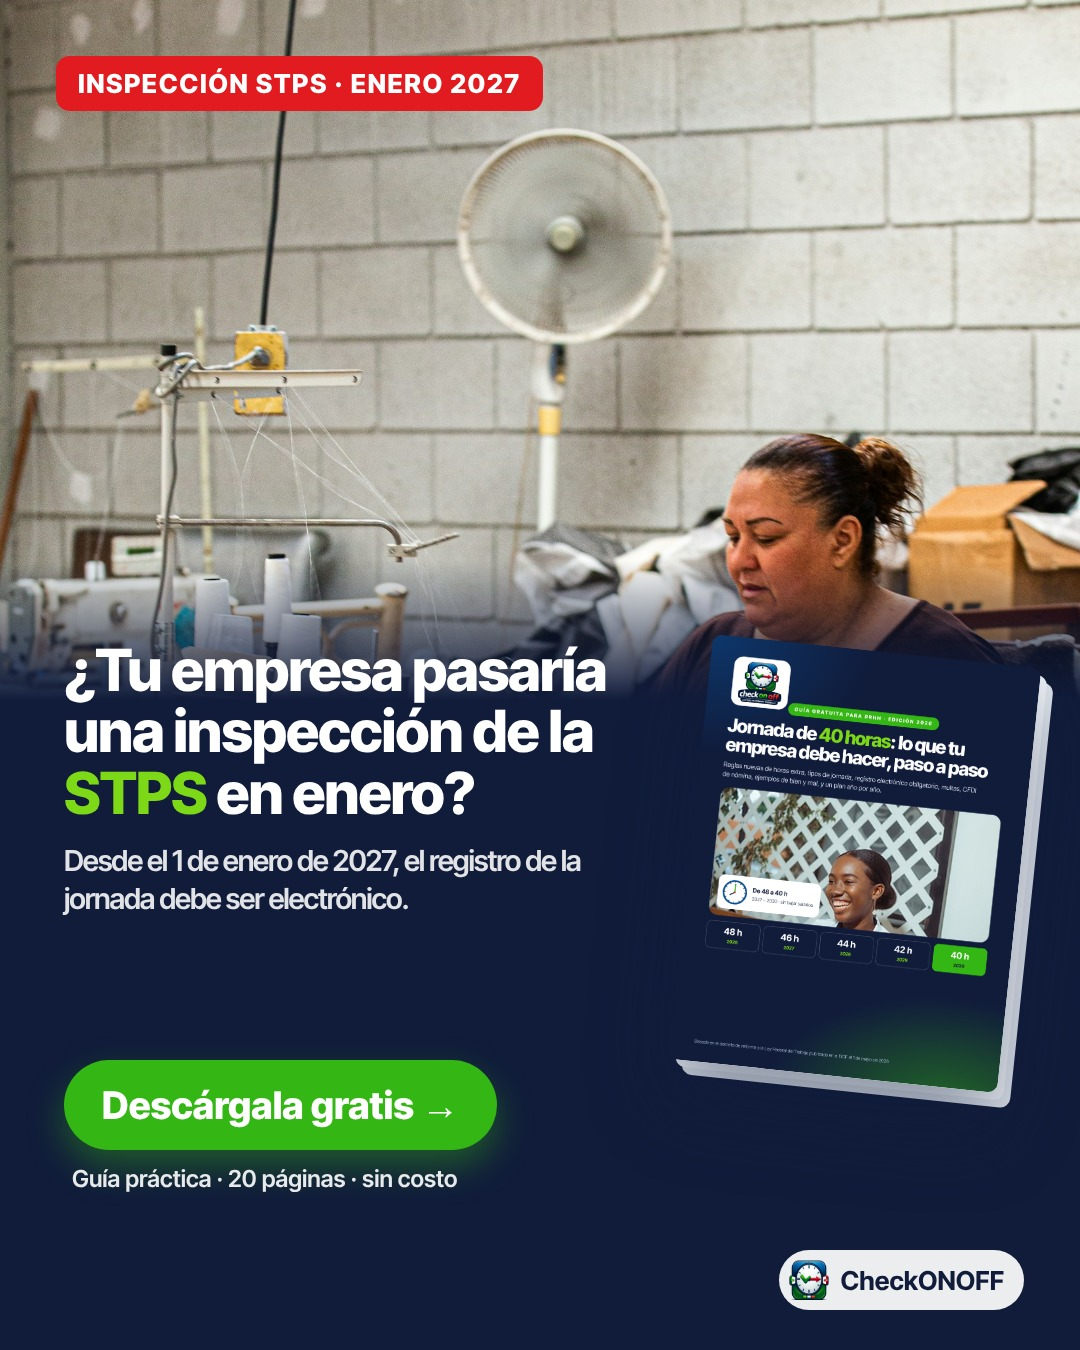
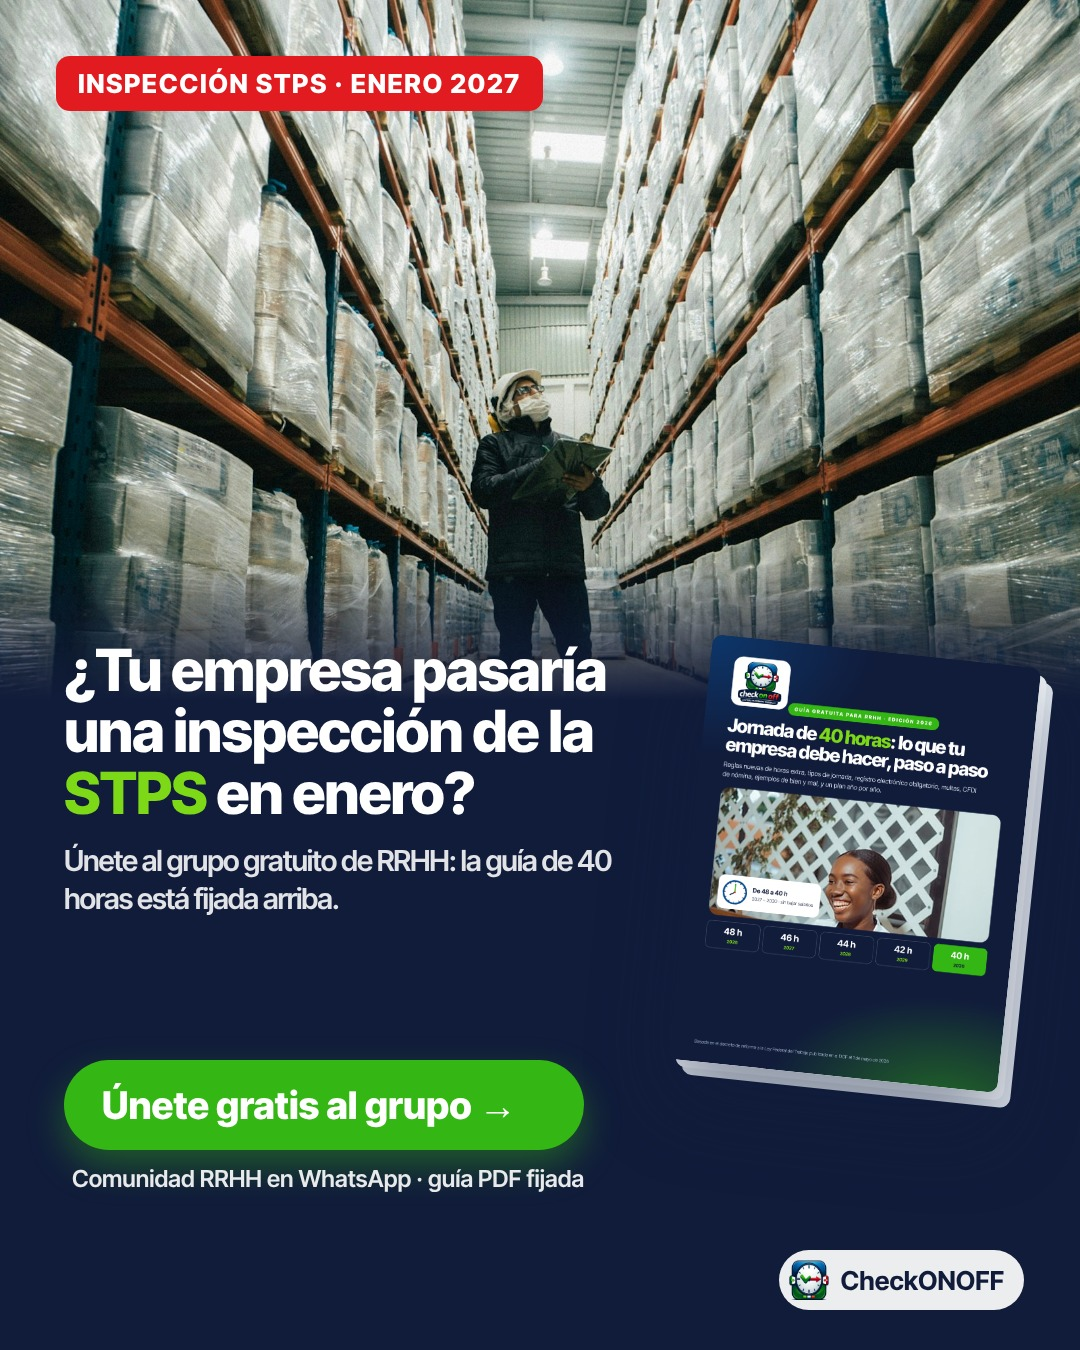
Anuncio en pausa para unirse al grupo de WhatsApp Jornada 40 hrs MX (A/B, feed e historias, fotos nuevas)
Claude-Session: https://claude.ai/code/session_01XBCqhX5CghmhVPF1PqhUxY

diff --git a/plantillas/render_campana_stps.js b/plantillas/render_campana_stps.js
@@ -1,4 +1,4 @@
-// Campaña pagada "¿Pasarías una inspección de la STPS?" (guía 40 h como imán) · estándar premium
+// Campaña pagada: unirse al grupo de WhatsApp "Jornada 40 hrs MX" (la guía 40 h está fijada ahí) · estándar premium
 const { chromium } = require('/opt/node-tools/node_modules/playwright');
 const fs = require('fs'), path = require('path');
 const { b64, LOGO, C, CSS, ph, G } = require('./premium_base');
@@ -11,20 +11,20 @@ const libro = (x, y, w, rot) => `<div style="position:absolute;left:${x}px;top:$
   <img src="${GUIA}" style="position:relative;display:block;width:100%;border-radius:10px;box-shadow:0 40px 80px rgba(17,28,59,.45)"></div>`;
 const chip = (t, bg, col, x, y, s = 30) => `<div style="position:absolute;left:${x}px;top:${y}px;background:${bg};color:${col};font-weight:800;font-size:${s}px;letter-spacing:.06em;padding:12px 22px;border-radius:14px;z-index:7">${t}</div>`;
 const cta = (x, y, s = 40) => `<div style="position:absolute;left:${x}px;top:${y}px;z-index:7;display:flex;flex-direction:column;gap:14px">
-  <div style="background:${C.g};color:#fff;font-weight:800;font-size:${s}px;padding:22px 38px;border-radius:99px;box-shadow:0 16px 36px rgba(52,182,20,.4)">Descárgala gratis →</div>
-  <div style="color:#fff;font-weight:600;font-size:${s * .62}px;opacity:.9;padding-left:8px">Guía práctica · 20 páginas · sin costo</div></div>`;
+  <div style="background:${C.g};color:#fff;font-weight:800;font-size:${s}px;padding:22px 38px;border-radius:99px;box-shadow:0 16px 36px rgba(52,182,20,.4)">Únete gratis al grupo →</div>
+  <div style="color:#fff;font-weight:600;font-size:${s * .62}px;opacity:.9;padding-left:8px">Comunidad RRHH en WhatsApp · guía PDF fijada</div></div>`;
 const grad = h => `<div style="position:absolute;left:0;right:0;bottom:0;height:${h}px;background:linear-gradient(180deg,rgba(17,28,59,0) 0%,rgba(17,28,59,.88) 38%,${C.navy} 70%);z-index:2"></div>`;
 const lista = (items, x, y, s) => `<div style="position:absolute;left:${x}px;top:${y}px;z-index:7;color:#fff;font-size:${s}px;font-weight:600;line-height:1.55">${items.map(t => `<div><span style="color:${C.lime};font-weight:800">✓</span> ${t}</div>`).join('')}</div>`;
 const marca = bottom => `<div class="logo" style="bottom:${bottom}px;z-index:8"><img src="${LOGO}">CheckONOFF</div>`;
 
 const piezas = {
-  A: { foto: 'mx_taller', top: -60, ext: '', chip: ['INSPECCIÓN STPS · ENERO 2027', C.r, '#fff'],
+  A: { foto: 'u_SoiVEdJKzhY', top: -260, ext: '', chip: ['INSPECCIÓN STPS · ENERO 2027', C.r, '#fff'],
        t: `¿Tu empresa pasaría una inspección de la ${G('STPS')} en enero?`,
-       s: 'Desde el 1 de enero de 2027, el registro de la jornada debe ser electrónico.',
+       s: 'Únete al grupo gratuito de RRHH: la guía de 40 horas está fijada arriba.',
        l: ['Calendario 2026–2030', 'Horas extra: reglas nuevas', 'Checklist de registro', 'Plan año por año'] },
-  B: { foto: 'mx_laptop', top: -120, ext: '', chip: ['GUÍA GRATIS PARA RRHH', C.lime, C.navy],
+  B: { foto: 'u_CGio_d3e1uc', top: -200, ext: '', chip: ['GRUPO GRATIS PARA RRHH', C.lime, C.navy],
        t: `En 2027 la jornada baja a ${G('46 horas.')}`,
-       s: 'Turnos, horas extra y registro electrónico: lo que RRHH debe hacer antes de enero.',
+       s: 'Únete al grupo de WhatsApp: guía PDF, clases en vivo y plantillas para tu empresa.',
        l: ['Ejemplos de turnos legales', 'Dobles, triples y sus topes', 'Multas y cómo evitarlas', 'Checklist imprimible'] },
 };
 for (const [k, p] of Object.entries(piezas)) {

diff --git a/scripts/anuncios.py b/scripts/anuncios.py
@@ -4,11 +4,13 @@ Reglas del dueño: las campañas se crean SIEMPRE en pausa; nunca se activan ni 
 
   python scripts/anuncios.py verificar        → revisa el acceso (solo lectura) y deja estado/anuncios.json
   python scripts/anuncios.py crear <clave>    → crea EN PAUSA la campaña de campana/anuncios/<clave>.json (no gasta nada)
+  Si el json trae "tipo": "enlace", crea anuncios de imagen (A/B) que llevan a un enlace (p. ej. el grupo de WhatsApp),
+  con un conjunto por grupo de posiciones (feed / historias) y un anuncio por imagen.
   python scripts/anuncios.py renovar <clave>  → borra el anuncio en pausa y lo vuelve a crear con el video actual (p. ej. tras corregir el audio)
 
 Variables: META_ADS_TOKEN (secreto), META_AD_ACCOUNT (p. ej. act_1648565720071394), GRAPH_VERSION.
 """
-import json, os, pathlib, sys, time, urllib.parse, urllib.request
+import base64, json, os, pathlib, sys, time, urllib.parse, urllib.request
 from datetime import datetime, timezone
 
 GRAPH = "https://graph.facebook.com/" + os.environ.get("GRAPH_VERSION", "v26.0")
@@ -76,6 +78,8 @@ def crear(clave):
         c["intereses"] = ints; guardar()
     camp = paso("campana_id", lambda: post(f"{CUENTA}/campaigns", name=cfg["nombre"], objective="OUTCOME_TRAFFIC", status="PAUSED",
                                             special_ad_categories=[], is_adset_budget_sharing_enabled="false"))
+    if cfg.get("tipo") == "enlace":
+        return crear_enlace(cfg, c, paso, ig, camp, guardar)
     targeting = {"geo_locations": {"countries": [cfg["pais"]]}, "age_min": cfg["edad_min"], "age_max": cfg["edad_max"],
                  "publisher_platforms": ["instagram"], "instagram_positions": ["stream", "reels"],
                  "targeting_automation": {"advantage_audience": 0}}  # público exacto, sin ampliación automática
@@ -106,6 +110,36 @@ def crear(clave):
         c["vista_previa"] = prev["data"][0].get("body", "")
     c["revisado"] = datetime.now(timezone.utc).isoformat(timespec="seconds"); guardar()
     print(json.dumps({k: v for k, v in c.items() if k != "vista_previa"}, ensure_ascii=False, indent=1))
+
+
+def crear_enlace(cfg, c, paso, ig, camp, guardar):
+    """Anuncios de imagen hacia cfg["enlace"]: un conjunto por grupo de posiciones y un anuncio por imagen (prueba A/B)."""
+    raiz = ESTADO.parent.parent
+    for g, conj in cfg["conjuntos"].items():
+        targeting = {"geo_locations": {"countries": [cfg["pais"]]}, "age_min": cfg["edad_min"], "age_max": cfg["edad_max"],
+                     "targeting_automation": {"advantage_audience": 0}, **conj["posiciones"]}
+        if c["intereses"]:
+            targeting["flexible_spec"] = [{"interests": c["intereses"]}]
+        adset = paso(f"conjunto_{g}", lambda: post(f"{CUENTA}/adsets", name=f"{cfg['nombre']} · {g}", campaign_id=camp, status="PAUSED",
+                                                   daily_budget=int(conj["presupuesto_mxn"] * 100), billing_event="IMPRESSIONS",
+                                                   optimization_goal="LINK_CLICKS", destination_type="WEBSITE",
+                                                   bid_strategy="LOWEST_COST_WITHOUT_CAP", targeting=targeting))
+        for v, img in conj["anuncios"].items():
+            def subir():
+                r = post(f"{CUENTA}/adimages", bytes=base64.b64encode((raiz / img).read_bytes()).decode(), name=pathlib.Path(img).name)
+                return r if "error" in r else {"id": next(iter(r["images"].values()))["hash"]}
+            h = paso(f"imagen_{v}_{g}", subir)
+            creat = paso(f"creativo_{v}_{g}", lambda: post(f"{CUENTA}/adcreatives", name=f"{cfg['nombre']} · {v} · {g}", object_story_spec={
+                "page_id": cfg["pagina_id"], "instagram_user_id": ig,
+                "link_data": {"link": cfg["enlace"], "message": cfg["texto"], "image_hash": h, "name": cfg["titulos"][v],
+                              "description": cfg.get("descripcion", ""), "call_to_action": {"type": cfg.get("boton", "LEARN_MORE"), "value": {"link": cfg["enlace"]}}}}))
+            ad = paso(f"anuncio_{v}_{g}", lambda: post(f"{CUENTA}/ads", name=f"{cfg['nombre']} · {v} · {g}", adset_id=adset,
+                                                      creative={"creative_id": creat}, status="PAUSED"))
+            prev = get(f"{ad}/previews", ad_format="INSTAGRAM_STANDARD" if g == "feed" else "INSTAGRAM_STORY")
+            if prev.get("data"):
+                c.setdefault("vistas_previas", {})[f"{v}_{g}"] = prev["data"][0].get("body", "")
+    c["revisado"] = datetime.now(timezone.utc).isoformat(timespec="seconds"); guardar()
+    print(json.dumps({k: v for k, v in c.items() if k not in ("vista_previa", "vistas_previas", "config")}, ensure_ascii=False, indent=1))
 
 
 def renovar(clave):
